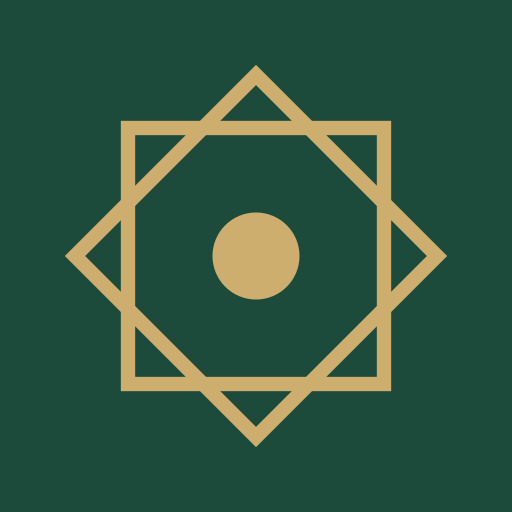
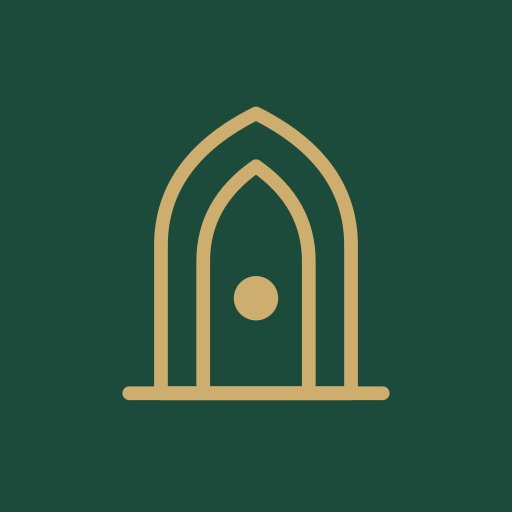
أيقونة الموقع: شعار المحراب بدل النجمة الثمانية
Claude-Session: https://claude.ai/code/session_014BsKf2qrsjB2SCjkZDUboV

Changed region(s): [[0.125, 0.125, 0.875, 0.875]]

diff --git a/sw.js b/sw.js
@@ -1,6 +1,6 @@
 /* أثر — service worker. Caches the app shell as-is (content is embedded in index.html, so offline = the exact bytes last fetched online).
    Navigations: network first (fresh content when online), cached copy when offline. Static files: cache first. Cache name changes whenever any file changes. */
-const VERSION='ea792454fdfa',CACHE='athar-'+VERSION,SHELL=["./", "index.html", "manifest.webmanifest", "pwa.js", "fonts.css", "fonts/hafs.18.woff2", "fonts/amiri-quran-arabic-400-normal.woff2", "fonts/amiri-quran-latin-400-normal.woff2", "fonts/amiri-arabic-400-normal.woff2", "fonts/amiri-arabic-700-normal.woff2", "fonts/amiri-latin-400-normal.woff2", "fonts/amiri-latin-700-normal.woff2", "fonts/ibm-plex-sans-arabic-arabic-400-normal.woff2", "fonts/ibm-plex-sans-arabic-arabic-500-normal.woff2", "fonts/ibm-plex-sans-arabic-arabic-600-normal.woff2", "fonts/ibm-plex-sans-arabic-latin-400-normal.woff2", "fonts/ibm-plex-sans-arabic-latin-500-normal.woff2", "fonts/ibm-plex-sans-arabic-latin-600-normal.woff2", "icons/favicon.svg", "icons/icon-192.png", "icons/icon-512.png", "icons/maskable-512.png", "icons/apple-touch-icon.png"];
+const VERSION='11358d9ff0a2',CACHE='athar-'+VERSION,SHELL=["./", "index.html", "manifest.webmanifest", "pwa.js", "fonts.css", "fonts/hafs.18.woff2", "fonts/amiri-quran-arabic-400-normal.woff2", "fonts/amiri-quran-latin-400-normal.woff2", "fonts/amiri-arabic-400-normal.woff2", "fonts/amiri-arabic-700-normal.woff2", "fonts/amiri-latin-400-normal.woff2", "fonts/amiri-latin-700-normal.woff2", "fonts/ibm-plex-sans-arabic-arabic-400-normal.woff2", "fonts/ibm-plex-sans-arabic-arabic-500-normal.woff2", "fonts/ibm-plex-sans-arabic-arabic-600-normal.woff2", "fonts/ibm-plex-sans-arabic-latin-400-normal.woff2", "fonts/ibm-plex-sans-arabic-latin-500-normal.woff2", "fonts/ibm-plex-sans-arabic-latin-600-normal.woff2", "icons/favicon.svg", "icons/icon-192.png", "icons/icon-512.png", "icons/maskable-512.png", "icons/apple-touch-icon.png"];
 self.addEventListener('install',e=>{e.waitUntil(caches.open(CACHE).then(c=>c.addAll(SHELL)).then(()=>self.skipWaiting()))});
 const MCACHE='athar-mushaf-1';
 self.addEventListener('activate',e=>{e.waitUntil(caches.keys().then(ks=>Promise.all(ks.filter(k=>k.startsWith('athar-')&&k!==CACHE&&k!==MCACHE).map(k=>caches.delete(k)))).then(()=>self.clients.claim()))});
